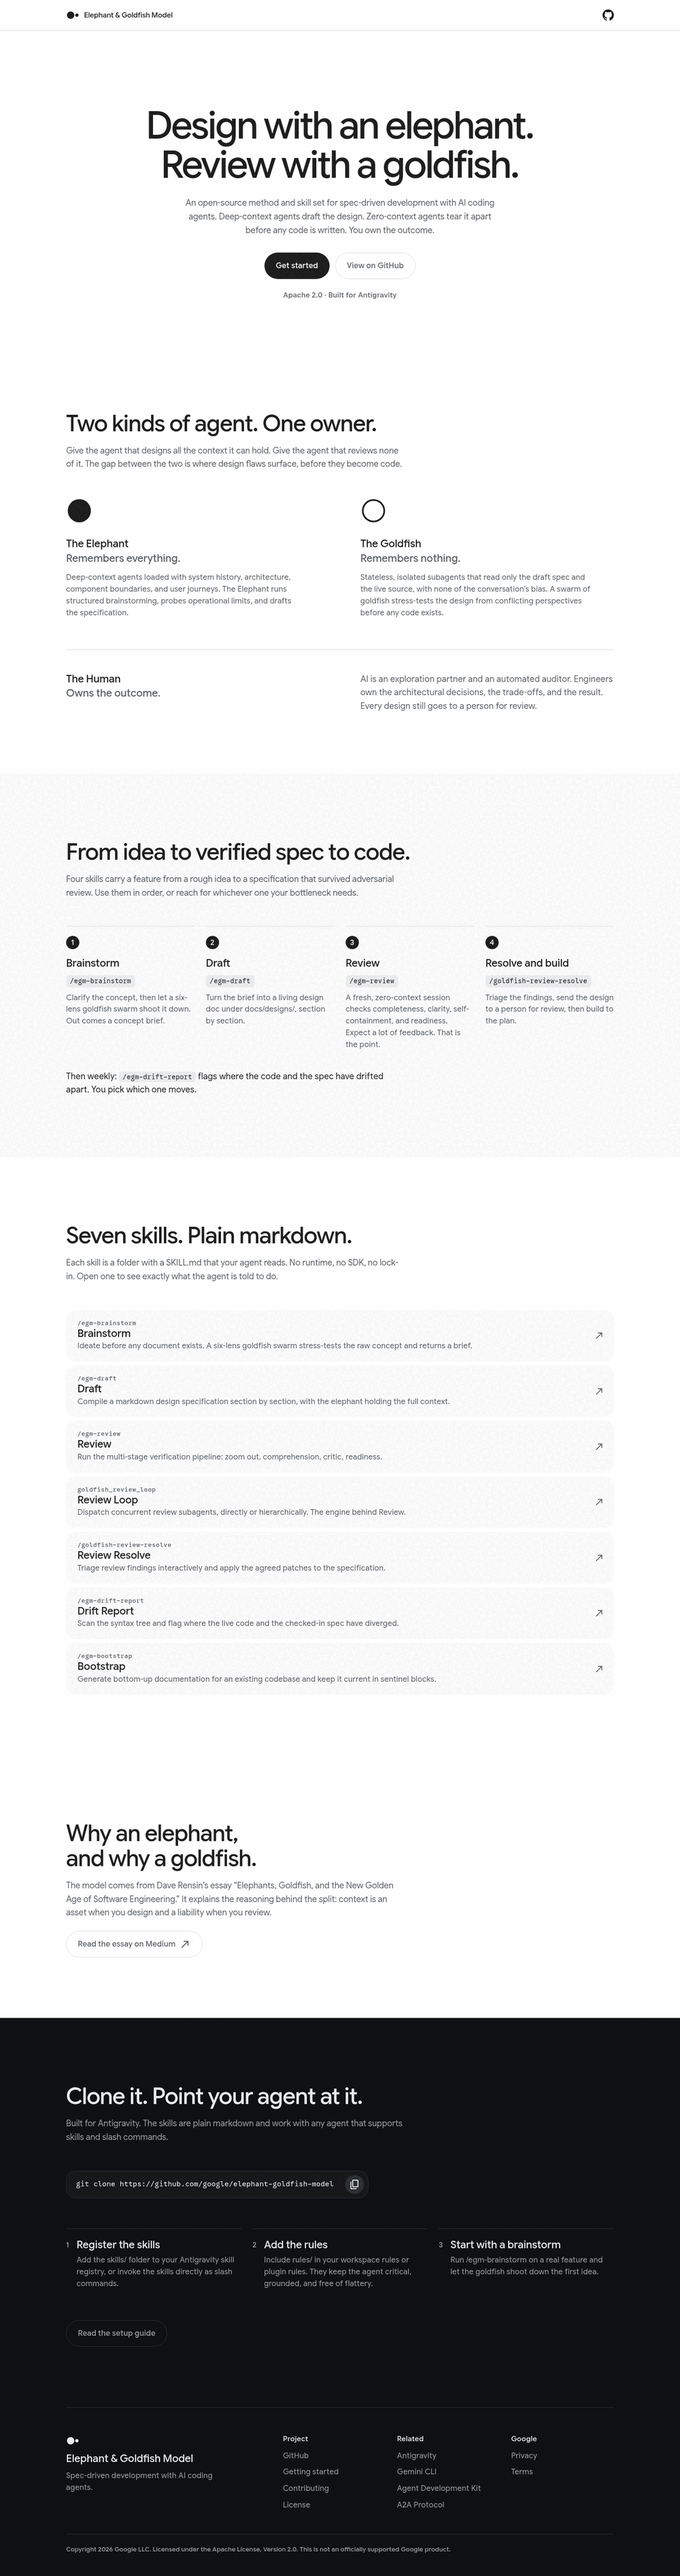
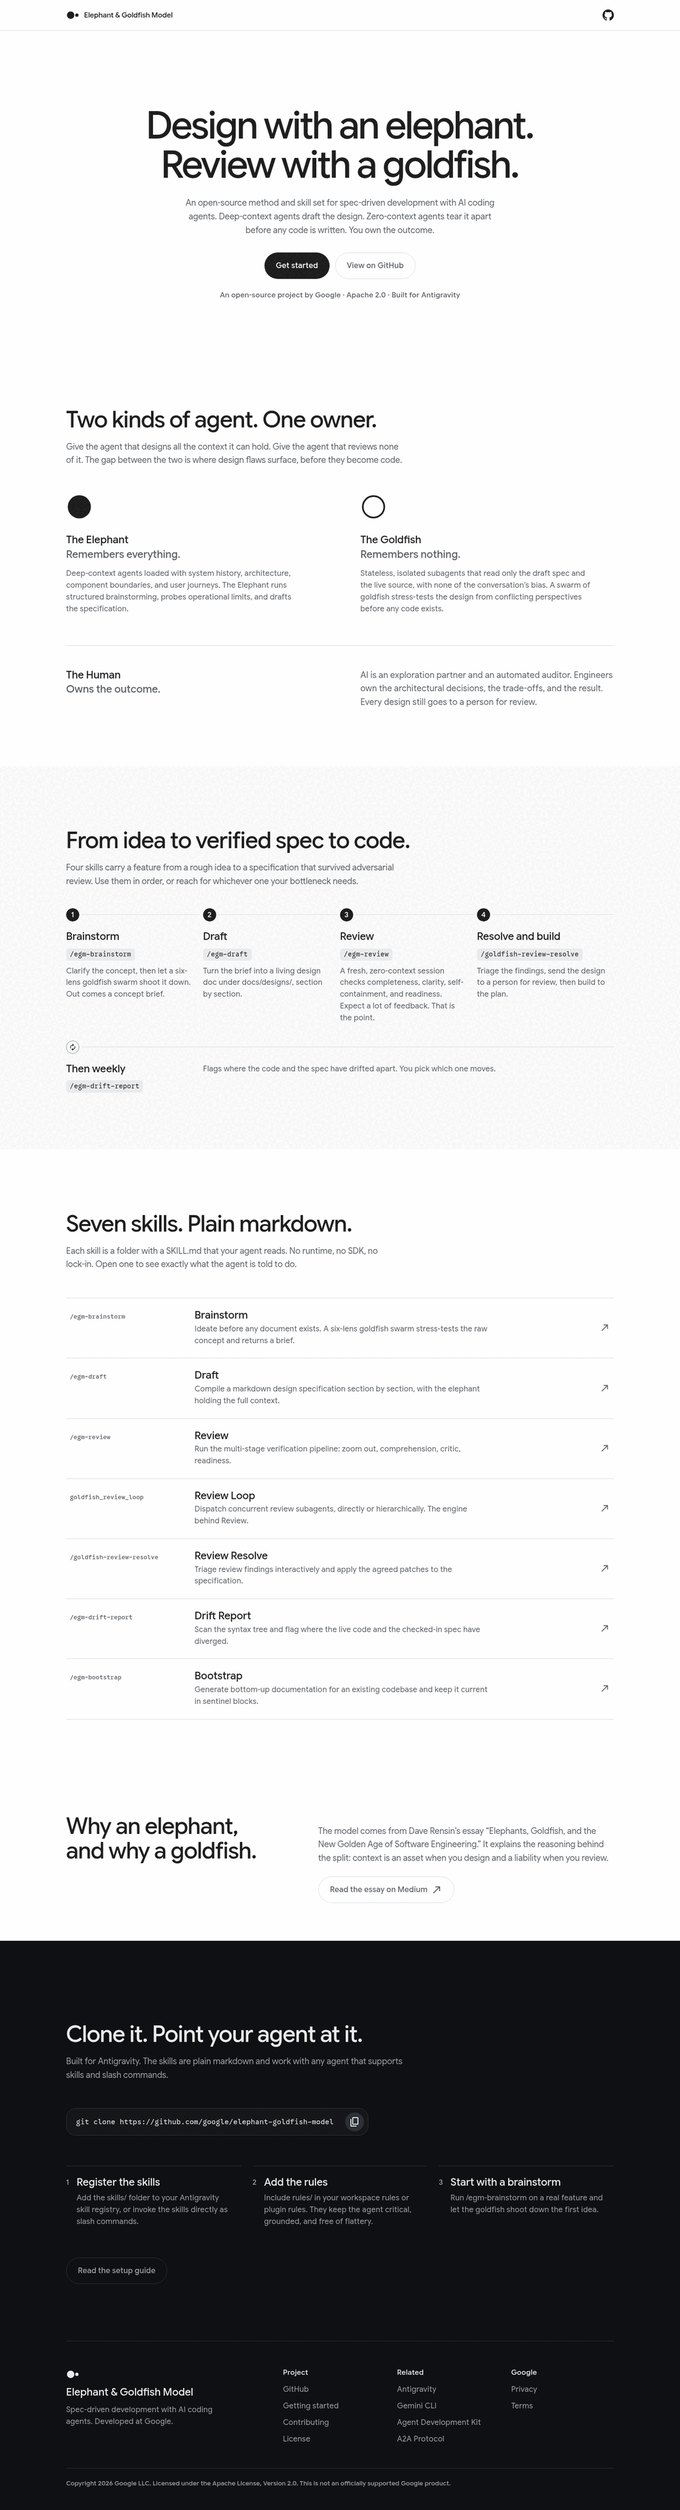
feat(site): index layout for skills, continuous step rule, section rhythm
Skills: the catalog is an index instead of a stack of cards. Hairline rows,
the command in its own aligned column with its baseline on the title's first
line, name and description beside it. Fixes a dropped space that rendered
"nolock-in".

Loop: one continuous rule carries the four steps; each number sits on the
rule behind a surface-colored ring. The weekly drift check is a fifth entry
on the same rule with its own marker instead of a trailing paragraph.

Essay: two-column aside at wide widths, headline left, argument and button
right, first baselines aligned.

Rhythm: one three-step section scale (tight, standard, loose) replaces
per-section padding values; the install section enters loose.

Verified at 1440 and 375, light and dark: no horizontal overflow, baselines
within 1px, astro check and build clean.

diff --git a/site/src/styles/global.css b/site/src/styles/global.css
@@ -94,6 +94,13 @@ svg {
 }
 
 /* Layout */
+:root {
+  /* Section rhythm: one scale, three steps. Tight for asides, loose before a change of register. */
+  --section-y-tight: clamp(48px, 6vw, 80px);
+  --section-y: clamp(72px, 9vw, 120px);
+  --section-y-loose: clamp(96px, 12vw, 160px);
+}
+
 .wrap {
   inline-size: min(100% - 48px, 1160px);
   margin-inline: auto;
@@ -106,7 +113,11 @@ svg {
 }
 
 .section {
-  padding-block: clamp(72px, 10vw, 128px);
+  padding-block: var(--section-y);
+}
+
+.section-tight {
+  padding-block: var(--section-y-tight);
 }
 
 .section-head {
@@ -132,6 +143,10 @@ svg {
   letter-spacing: var(--md-sys-typescale-title-lg-tracking);
 }
 
+p {
+  text-wrap: pretty;
+}
+
 .lead {
   font: var(--md-sys-typescale-body-lg);
   letter-spacing: var(--md-sys-typescale-body-lg-tracking);
@@ -141,6 +156,10 @@ svg {
 
 .muted {
   color: var(--md-sys-color-on-surface-variant);
+}
+
+.nowrap {
+  white-space: nowrap;
 }
 
 .skip-link {
